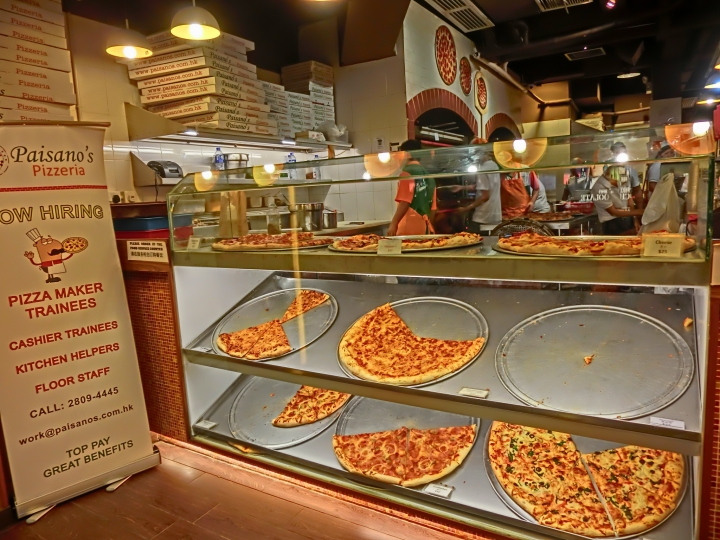
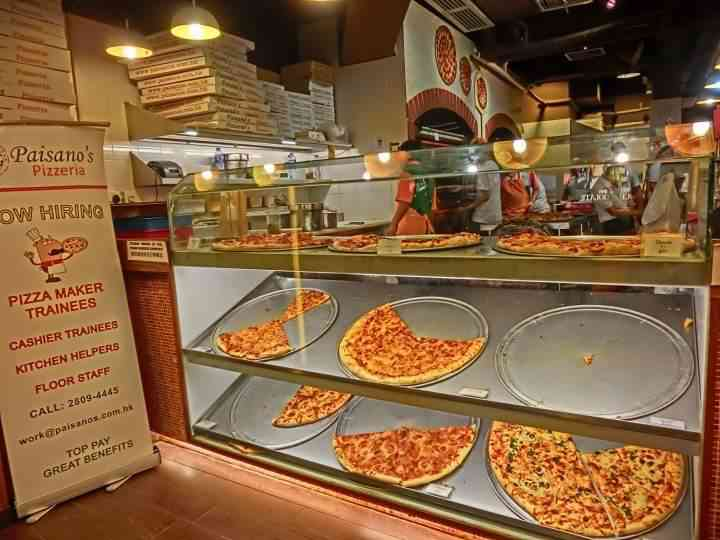
Make main.js load async, inline CSS, and optimize images

diff --git a/site/views/css/bootstrap-grid.css b/site/views/css/bootstrap-grid.css
@@ -5,4 +5,4 @@
  *//*!
  * Generated using the Bootstrap Customizer (http://getbootstrap.com/customize/?id=6b5a4e476fec98c1638f)
  * Config saved to config.json and https://gist.github.com/6b5a4e476fec98c1638f
- *//*! normalize.css v3.0.1 | MIT License | git.io/normalize */img{vertical-align:middle}.img-responsive{display:block;max-width:100%;height:auto}.img-rounded{border-radius:6px}.img-thumbnail{padding:4px;line-height:1.42857143;background-color:#fff;border:1px solid #ddd;border-radius:4px;-webkit-transition:all .2s ease-in-out;-o-transition:all .2s ease-in-out;transition:all .2s ease-in-out;display:inline-block;max-width:100%;height:auto}.img-circle{border-radius:50%}hr{margin-top:20px;margin-bottom:20px;border:0;border-top:1px solid #eee}.sr-only{position:absolute;width:1px;height:1px;margin:-1px;padding:0;overflow:hidden;clip:rect(0,0,0,0);border:0}.sr-only-focusable:active,.sr-only-focusable:focus{position:static;width:auto;height:auto;margin:0;overflow:visible;clip:auto}.container,.container-fluid{margin-right:auto;margin-left:auto;padding-left:15px;padding-right:15px}@media (min-width:768px){.container{width:750px}}@media (min-width:992px){.container{width:970px}}@media (min-width:1200px){.container{width:1170px}}.row{margin-left:-15px;margin-right:-15px}.col-lg-1,.col-lg-10,.col-lg-11,.col-lg-12,.col-lg-2,.col-lg-3,.col-lg-4,.col-lg-5,.col-lg-6,.col-lg-7,.col-lg-8,.col-lg-9,.col-md-1,.col-md-10,.col-md-11,.col-md-12,.col-md-2,.col-md-3,.col-md-4,.col-md-5,.col-md-6,.col-md-7,.col-md-8,.col-md-9,.col-sm-1,.col-sm-10,.col-sm-11,.col-sm-12,.col-sm-2,.col-sm-3,.col-sm-4,.col-sm-5,.col-sm-6,.col-sm-7,.col-sm-8,.col-sm-9,.col-xs-1,.col-xs-10,.col-xs-11,.col-xs-12,.col-xs-2,.col-xs-3,.col-xs-4,.col-xs-5,.col-xs-6,.col-xs-7,.col-xs-8,.col-xs-9{position:relative;min-height:1px;padding-left:15px;padding-right:15px}.col-xs-1,.col-xs-10,.col-xs-11,.col-xs-12,.col-xs-2,.col-xs-3,.col-xs-4,.col-xs-5,.col-xs-6,.col-xs-7,.col-xs-8,.col-xs-9{float:left}.col-xs-12{width:100%}.col-xs-11{width:91.66666667%}.col-xs-10{width:83.33333333%}.col-xs-9{width:75%}.col-xs-8{width:66.66666667%}.col-xs-7{width:58.33333333%}.col-xs-6{width:50%}.col-xs-5{width:41.66666667%}.col-xs-4{width:33.33333333%}.col-xs-3{width:25%}.col-xs-2{width:16.66666667%}.col-xs-1{width:8.33333333%}.col-xs-pull-12{right:100%}.col-xs-pull-11{right:91.66666667%}.col-xs-pull-10{right:83.33333333%}.col-xs-pull-9{right:75%}.col-xs-pull-8{right:66.66666667%}.col-xs-pull-7{right:58.33333333%}.col-xs-pull-6{right:50%}.col-xs-pull-5{right:41.66666667%}.col-xs-pull-4{right:33.33333333%}.col-xs-pull-3{right:25%}.col-xs-pull-2{right:16.66666667%}.col-xs-pull-1{right:8.33333333%}.col-xs-pull-0{right:auto}.col-xs-push-12{left:100%}.col-xs-push-11{left:91.66666667%}.col-xs-push-10{left:83.33333333%}.col-xs-push-9{left:75%}.col-xs-push-8{left:66.66666667%}.col-xs-push-7{left:58.33333333%}.col-xs-push-6{left:50%}.col-xs-push-5{left:41.66666667%}.col-xs-push-4{left:33.33333333%}.col-xs-push-3{left:25%}.col-xs-push-2{left:16.66666667%}.col-xs-push-1{left:8.33333333%}.col-xs-push-0{left:auto}.col-xs-offset-12{margin-left:100%}.col-xs-offset-11{margin-left:91.66666667%}.col-xs-offset-10{margin-left:83.33333333%}.col-xs-offset-9{margin-left:75%}.col-xs-offset-8{margin-left:66.66666667%}.col-xs-offset-7{margin-left:58.33333333%}.col-xs-offset-6{margin-left:50%}.col-xs-offset-5{margin-left:41.66666667%}.col-xs-offset-4{margin-left:33.33333333%}.col-xs-offset-3{margin-left:25%}.col-xs-offset-2{margin-left:16.66666667%}.col-xs-offset-1{margin-left:8.33333333%}.col-xs-offset-0{margin-left:0}@media (min-width:768px){.col-sm-1,.col-sm-10,.col-sm-11,.col-sm-12,.col-sm-2,.col-sm-3,.col-sm-4,.col-sm-5,.col-sm-6,.col-sm-7,.col-sm-8,.col-sm-9{float:left}.col-sm-12{width:100%}.col-sm-11{width:91.66666667%}.col-sm-10{width:83.33333333%}.col-sm-9{width:75%}.col-sm-8{width:66.66666667%}.col-sm-7{width:58.33333333%}.col-sm-6{width:50%}.col-sm-5{width:41.66666667%}.col-sm-4{width:33.33333333%}.col-sm-3{width:25%}.col-sm-2{width:16.66666667%}.col-sm-1{width:8.33333333%}.col-sm-pull-12{right:100%}.col-sm-pull-11{right:91.66666667%}.col-sm-pull-10{right:83.33333333%}.col-sm-pull-9{right:75%}.col-sm-pull-8{right:66.66666667%}.col-sm-pull-7{right:58.33333333%}.col-sm-pull-6{right:50%}.col-sm-pull-5{right:41.66666667%}.col-sm-pull-4{right:33.33333333%}.col-sm-pull-3{right:25%}.col-sm-pull-2{right:16.66666667%}.col-sm-pull-1{right:8.33333333%}.col-sm-pull-0{right:auto}.col-sm-push-12{left:100%}.col-sm-push-11{left:91.66666667%}.col-sm-push-10{left:83.33333333%}.col-sm-push-9{left:75%}.col-sm-push-8{left:66.66666667%}.col-sm-push-7{left:58.33333333%}.col-sm-push-6{left:50%}.col-sm-push-5{left:41.66666667%}.col-sm-push-4{left:33.33333333%}.col-sm-push-3{left:25%}.col-sm-push-2{left:16.66666667%}.col-sm-push-1{left:8.33333333%}.col-sm-push-0{left:auto}.col-sm-offset-12{margin-left:100%}.col-sm-offset-11{margin-left:91.66666667%}.col-sm-offset-10{margin-left:83.33333333%}.col-sm-offset-9{margin-left:75%}.col-sm-offset-8{margin-left:66.66666667%}.col-sm-offset-7{margin-left:58.33333333%}.col-sm-offset-6{margin-left:50%}.col-sm-offset-5{margin-left:41.66666667%}.col-sm-offset-4{margin-left:33.33333333%}.col-sm-offset-3{margin-left:25%}.col-sm-offset-2{margin-left:16.66666667%}.col-sm-offset-1{margin-left:8.33333333%}.col-sm-offset-0{margin-left:0}}@media (min-width:992px){.col-md-1,.col-md-10,.col-md-11,.col-md-12,.col-md-2,.col-md-3,.col-md-4,.col-md-5,.col-md-6,.col-md-7,.col-md-8,.col-md-9{float:left}.col-md-12{width:100%}.col-md-11{width:91.66666667%}.col-md-10{width:83.33333333%}.col-md-9{width:75%}.col-md-8{width:66.66666667%}.col-md-7{width:58.33333333%}.col-md-6{width:50%}.col-md-5{width:41.66666667%}.col-md-4{width:33.33333333%}.col-md-3{width:25%}.col-md-2{width:16.66666667%}.col-md-1{width:8.33333333%}.col-md-pull-12{right:100%}.col-md-pull-11{right:91.66666667%}.col-md-pull-10{right:83.33333333%}.col-md-pull-9{right:75%}.col-md-pull-8{right:66.66666667%}.col-md-pull-7{right:58.33333333%}.col-md-pull-6{right:50%}.col-md-pull-5{right:41.66666667%}.col-md-pull-4{right:33.33333333%}.col-md-pull-3{right:25%}.col-md-pull-2{right:16.66666667%}.col-md-pull-1{right:8.33333333%}.col-md-pull-0{right:auto}.col-md-push-12{left:100%}.col-md-push-11{left:91.66666667%}.col-md-push-10{left:83.33333333%}.col-md-push-9{left:75%}.col-md-push-8{left:66.66666667%}.col-md-push-7{left:58.33333333%}.col-md-push-6{left:50%}.col-md-push-5{left:41.66666667%}.col-md-push-4{left:33.33333333%}.col-md-push-3{left:25%}.col-md-push-2{left:16.66666667%}.col-md-push-1{left:8.33333333%}.col-md-push-0{left:auto}.col-md-offset-12{margin-left:100%}.col-md-offset-11{margin-left:91.66666667%}.col-md-offset-10{margin-left:83.33333333%}.col-md-offset-9{margin-left:75%}.col-md-offset-8{margin-left:66.66666667%}.col-md-offset-7{margin-left:58.33333333%}.col-md-offset-6{margin-left:50%}.col-md-offset-5{margin-left:41.66666667%}.col-md-offset-4{margin-left:33.33333333%}.col-md-offset-3{margin-left:25%}.col-md-offset-2{margin-left:16.66666667%}.col-md-offset-1{margin-left:8.33333333%}.col-md-offset-0{margin-left:0}}@media (min-width:1200px){.col-lg-1,.col-lg-10,.col-lg-11,.col-lg-12,.col-lg-2,.col-lg-3,.col-lg-4,.col-lg-5,.col-lg-6,.col-lg-7,.col-lg-8,.col-lg-9{float:left}.col-lg-12{width:100%}.col-lg-11{width:91.66666667%}.col-lg-10{width:83.33333333%}.col-lg-9{width:75%}.col-lg-8{width:66.66666667%}.col-lg-7{width:58.33333333%}.col-lg-6{width:50%}.col-lg-5{width:41.66666667%}.col-lg-4{width:33.33333333%}.col-lg-3{width:25%}.col-lg-2{width:16.66666667%}.col-lg-1{width:8.33333333%}.col-lg-pull-12{right:100%}.col-lg-pull-11{right:91.66666667%}.col-lg-pull-10{right:83.33333333%}.col-lg-pull-9{right:75%}.col-lg-pull-8{right:66.66666667%}.col-lg-pull-7{right:58.33333333%}.col-lg-pull-6{right:50%}.col-lg-pull-5{right:41.66666667%}.col-lg-pull-4{right:33.33333333%}.col-lg-pull-3{right:25%}.col-lg-pull-2{right:16.66666667%}.col-lg-pull-1{right:8.33333333%}.col-lg-pull-0{right:auto}.col-lg-push-12{left:100%}.col-lg-push-11{left:91.66666667%}.col-lg-push-10{left:83.33333333%}.col-lg-push-9{left:75%}.col-lg-push-8{left:66.66666667%}.col-lg-push-7{left:58.33333333%}.col-lg-push-6{left:50%}.col-lg-push-5{left:41.66666667%}.col-lg-push-4{left:33.33333333%}.col-lg-push-3{left:25%}.col-lg-push-2{left:16.66666667%}.col-lg-push-1{left:8.33333333%}.col-lg-push-0{left:auto}.col-lg-offset-12{margin-left:100%}.col-lg-offset-11{margin-left:91.66666667%}.col-lg-offset-10{margin-left:83.33333333%}.col-lg-offset-9{margin-left:75%}.col-lg-offset-8{margin-left:66.66666667%}.col-lg-offset-7{margin-left:58.33333333%}.col-lg-offset-6{margin-left:50%}.col-lg-offset-5{margin-left:41.66666667%}.col-lg-offset-4{margin-left:33.33333333%}.col-lg-offset-3{margin-left:25%}.col-lg-offset-2{margin-left:16.66666667%}.col-lg-offset-1{margin-left:8.33333333%}.col-lg-offset-0{margin-left:0}}.clearfix:after,.clearfix:before,.container-fluid:after,.container-fluid:before,.container:after,.container:before,.row:after,.row:before{content:" ";display:table}.clearfix:after,.container-fluid:after,.container:after,.row:after{clear:both}.center-block{display:block;margin-left:auto;margin-right:auto}.pull-right{float:right!important}.pull-left{float:left!important}.hide{display:none!important}.show{display:block!important}.invisible{visibility:hidden}.text-hide{font:0/0 a;color:transparent;text-shadow:none;background-color:transparent;border:0}.hidden{display:none!important;visibility:hidden!important}.affix{position:fixed;-webkit-transform:translate3d(0,0,0);transform:translate3d(0,0,0)}
+ *//*! normalize.css v3.0.1 | MIT License | git.io/normalize */img{vertical-align:middle}.img-responsive{display:block;max-width:100%;height:auto}hr{margin-top:20px;margin-bottom:20px;border:0;border-top:1px solid #eee}.container{margin-right:auto;margin-left:auto;padding-left:15px;padding-right:15px}@media (min-width:768px){.container{width:750px}}@media (min-width:992px){.container{width:970px}}@media (min-width:1200px){.container{width:1170px}}.row{margin-left:-15px;margin-right:-15px}.col-lg-1,.col-lg-10,.col-lg-11,.col-lg-12,.col-lg-2,.col-lg-3,.col-lg-4,.col-lg-5,.col-lg-6,.col-lg-7,.col-lg-8,.col-lg-9,.col-md-1,.col-md-10,.col-md-11,.col-md-12,.col-md-2,.col-md-3,.col-md-4,.col-md-5,.col-md-6,.col-md-7,.col-md-8,.col-md-9,.col-sm-1,.col-sm-10,.col-sm-11,.col-sm-12,.col-sm-2,.col-sm-3,.col-sm-4,.col-sm-5,.col-sm-6,.col-sm-7,.col-sm-8,.col-sm-9,.col-xs-1,.col-xs-10,.col-xs-11,.col-xs-12,.col-xs-2,.col-xs-3,.col-xs-4,.col-xs-5,.col-xs-6,.col-xs-7,.col-xs-8,.col-xs-9{position:relative;min-height:1px;padding-left:15px;padding-right:15px}@media (min-width:992px){.col-md-1,.col-md-10,.col-md-11,.col-md-12,.col-md-2,.col-md-3,.col-md-4,.col-md-5,.col-md-6,.col-md-7,.col-md-8,.col-md-9{float:left}.col-md-12{width:100%}.col-md-11{width:91.66666667%}.col-md-10{width:83.33333333%}.col-md-9{width:75%}.col-md-8{width:66.66666667%}.col-md-7{width:58.33333333%}.col-md-6{width:50%}.col-md-5{width:41.66666667%}.col-md-4{width:33.33333333%}.col-md-3{width:25%}.col-md-2{width:16.66666667%}.col-md-1{width:8.33333333%}.col-md-pull-12{right:100%}.col-md-pull-11{right:91.66666667%}.col-md-pull-10{right:83.33333333%}.col-md-pull-9{right:75%}.col-md-pull-8{right:66.66666667%}.col-md-pull-7{right:58.33333333%}.col-md-pull-6{right:50%}.col-md-pull-5{right:41.66666667%}.col-md-pull-4{right:33.33333333%}.col-md-pull-3{right:25%}.col-md-pull-2{right:16.66666667%}.col-md-pull-1{right:8.33333333%}.col-md-pull-0{right:auto}.col-md-push-12{left:100%}.col-md-push-11{left:91.66666667%}.col-md-push-10{left:83.33333333%}.col-md-push-9{left:75%}.col-md-push-8{left:66.66666667%}.col-md-push-7{left:58.33333333%}.col-md-push-6{left:50%}.col-md-push-5{left:41.66666667%}.col-md-push-4{left:33.33333333%}.col-md-push-3{left:25%}.col-md-push-2{left:16.66666667%}.col-md-push-1{left:8.33333333%}.col-md-push-0{left:auto}.col-md-offset-12{margin-left:100%}.col-md-offset-11{margin-left:91.66666667%}.col-md-offset-10{margin-left:83.33333333%}.col-md-offset-9{margin-left:75%}.col-md-offset-8{margin-left:66.66666667%}.col-md-offset-7{margin-left:58.33333333%}.col-md-offset-6{margin-left:50%}.col-md-offset-5{margin-left:41.66666667%}.col-md-offset-4{margin-left:33.33333333%}.col-md-offset-3{margin-left:25%}.col-md-offset-2{margin-left:16.66666667%}.col-md-offset-1{margin-left:8.33333333%}.col-md-offset-0{margin-left:0}}.clearfix:after,.clearfix:before,.container-fluid:after,.container-fluid:before,.container:after,.container:before,.row:after,.row:before{content:" ";display:table}.clearfix:after,.container-fluid:after,.container:after,.row:after{clear:both}.center-block{display:block;margin-left:auto;margin-right:auto}.pull-right{float:right!important}.pull-left{float:left!important}.hide{display:none!important}.show{display:block!important}.invisible{visibility:hidden}.text-hide{font:0/0 a;color:transparent;text-shadow:none;background-color:transparent;border:0}.hidden{display:none!important;visibility:hidden!important}.affix{position:fixed;-webkit-transform:translate3d(0,0,0);transform:translate3d(0,0,0)}

diff --git a/site/views/pizza.html b/site/views/pizza.html
@@ -1,1 +1,8 @@
-<!DOCTYPE HTML><html><head><style>*{-webkit-box-sizing:border-box;-moz-box-sizing:border-box;-box-sizing:border-box}body{font-family:"Trebuchet MS",Helvetica,sans-serif;background:#000}input{background:grey;font-size:18px}form{display:inline-block}.centered{text-align:center}#pizzaSize{font-weight:800}.mover{position:fixed;width:256px;z-index:-1}.randomPizzaContainer{float:left;display:flex}.randomPizzaContainer:after{content:"";display:table;clear:both}.container{background-color:rgba(240,60,60,.8)}</style><link rel=stylesheet href=css/bootstrap-grid.css></head><body><div class=container><div id=header class=row><div class=col-md-6><div class=row><div class=col-md-12><h1>Cam's Pizzeria</h1><div class=row><div id=menu class=col-md-12><form action=#randomPizzas><input type=submit value=Menu></form><form action=#ingredients><input type=submit value="Our Ingredients"></form><form action=#locations><input type=submit value=Locations></form><form action=# onsubmit="alert('Thanks for clicking! This button doesn\'t do anything because this is a fake pizzeria :\)')"><input type=submit value="Contact Us"></form></div></div></div></div></div><div id=movingPizzas1 class=col-md-6></div></div><div id=callToAction class=row><div class=col-md-4><img src=images/pizzeria.jpg class=img-responsive><!--Image credit to: http://commons.wikimedia.org/wiki/File:HK_TST_night_%E5%98%89%E8%98%AD%E9%81%93_Granville_Road_restaurant_Paisano's_Pizzeria_pizza_Dec-2013.JPG--></div><div class=col-md-8><div class=row><div class=col-md-12><h2>We Have Hundreds of Pizza Recipes!</h2><p>At Cam's Pizzeria, we know you want options. Pepperoni? Boring. Cheese? No way! Sausage? C'mon, let's get creative.</p><p>We have every pizza ingredient imaginable in our kitchen because we know you take choice seriously. Take a look through our menu of hundreds of pizza options and we know that you'll find something you love.</p></div></div><div class=row><div class="col-md-6 col-md-push-3"><form action=#randomPizzas><input type=submit value="Pick a Pizza Now!"></form></div></div></div></div><div id=ingredients class=row><div class="col-md-8 col-md-push-2"><div class=row><div class="col-md-12 centered"><h2>Ingredients!</h2></div></div><div class=row><div class=col-md-12><p>We've scoured the planet for the best pizza ingredients. Our crack team of ingredient specialists are on constant lookout for new and interesting pizza ingredients.</p><p>We have classic meats like pepperoni, sausage, and barbecue chicken. But you can find even more fun meats like coppa, kielbasa and soylent green on our menu too.</p><p>Not interested in meat? No problem! We love our veggies too :) We have everything from arugula to zucchini.</p></div></div></div></div><div id=locations class=row><div class=col-md-12><h2 style="text-align: center">Locations!</h2><div class=row><div class=col-md-6><h3>Pizza Road</h3><p>1800 Pizza Road<br>San Francisco, CA<br>01010<br>555-555-5555</p></div><div class=col-md-6><h3>Classic Pie Way</h3><p>999 Classic Pie Way<br>New York, NY<br>00100<br>555-555-5555</p></div></div></div></div><div id=pizzaGenerator class=row><div class=col-md-12><h2 style="text-align: center">Our Pizzas!</h2><div class=row><div class=col-md-12><em>What size pizza would you like? Use the slider below to change pizza sizes.</em></div><div id=pizzaSize class=col-md-6>Medium</div><div class=col-md-12><input id=sizeSlider type=range min=1 max=3 value=2 step=1 onchange=resizePizzas(this.value)></div></div><div id=randomPizzas class=row><div id=pizza0 class=randomPizzaContainer style=width:33.33%;><div class=col-md-6><img src=images/pizza.png class=img-responsive></div><div class=col-md-6><h4>The Udacity Special</h4><ul><li>Turkey</li><li>Tofu</li><li>Cauliflower</li><li>Sun Dried Tomatoes</li><li>Velveeta Cheese</li><li>Red Sauce</li><li>Whole Wheat Crust</li></ul></div></div><div id=pizza1 class=randomPizzaContainer style=width:33.33%;><div class=col-md-6><img src=images/pizza.png class=img-responsive></div><div class=col-md-6><h4>The Cameron Special</h4><ul><li>Chicken</li><li>Hot Sauce</li><li>White Crust</li></ul></div></div></div></div></div><div id=footer class=col-md-12>Thanks for visiting! &copy; 2014 Udacity</div></div><script type=text/javascript src=js/main.js></script></body></html>
+<!DOCTYPE HTML><html><head><meta name=viewport content="width=device-width,initial-scale=1"><meta name=description content="Frontend Web Developer Nanodegree Project 4"><meta name=author content="Randal Parsons"><title>Randal Parsons: Portfolio</title><style>*{-webkit-box-sizing:border-box;-moz-box-sizing:border-box;-box-sizing:border-box}body{font-family:"Trebuchet MS",Helvetica,sans-serif;background:#000}input{background:grey;font-size:18px}form{display:inline-block}.centered{text-align:center}#pizzaSize{font-weight:800}.mover{position:fixed;width:256px;z-index:-1}.randomPizzaContainer{float:left;display:flex}.randomPizzaContainer:after{content:"";display:table;clear:both}.container{background-color:rgba(240,60,60,.8)}</style><style>/*!
+ * Bootstrap v3.2.0 (http://getbootstrap.com)
+ * Copyright 2011-2014 Twitter, Inc.
+ * Licensed under MIT (https://github.com/twbs/bootstrap/blob/master/LICENSE)
+ *//*!
+ * Generated using the Bootstrap Customizer (http://getbootstrap.com/customize/?id=6b5a4e476fec98c1638f)
+ * Config saved to config.json and https://gist.github.com/6b5a4e476fec98c1638f
+ *//*! normalize.css v3.0.1 | MIT License | git.io/normalize */img{vertical-align:middle}.img-responsive{display:block;max-width:100%;height:auto}hr{margin-top:20px;margin-bottom:20px;border:0;border-top:1px solid #eee}.container{margin-right:auto;margin-left:auto;padding-left:15px;padding-right:15px}@media (min-width:768px){.container{width:750px}}@media (min-width:992px){.container{width:970px}}@media (min-width:1200px){.container{width:1170px}}.row{margin-left:-15px;margin-right:-15px}.col-lg-1,.col-lg-10,.col-lg-11,.col-lg-12,.col-lg-2,.col-lg-3,.col-lg-4,.col-lg-5,.col-lg-6,.col-lg-7,.col-lg-8,.col-lg-9,.col-md-1,.col-md-10,.col-md-11,.col-md-12,.col-md-2,.col-md-3,.col-md-4,.col-md-5,.col-md-6,.col-md-7,.col-md-8,.col-md-9,.col-sm-1,.col-sm-10,.col-sm-11,.col-sm-12,.col-sm-2,.col-sm-3,.col-sm-4,.col-sm-5,.col-sm-6,.col-sm-7,.col-sm-8,.col-sm-9,.col-xs-1,.col-xs-10,.col-xs-11,.col-xs-12,.col-xs-2,.col-xs-3,.col-xs-4,.col-xs-5,.col-xs-6,.col-xs-7,.col-xs-8,.col-xs-9{position:relative;min-height:1px;padding-left:15px;padding-right:15px}@media (min-width:992px){.col-md-1,.col-md-10,.col-md-11,.col-md-12,.col-md-2,.col-md-3,.col-md-4,.col-md-5,.col-md-6,.col-md-7,.col-md-8,.col-md-9{float:left}.col-md-12{width:100%}.col-md-11{width:91.66666667%}.col-md-10{width:83.33333333%}.col-md-9{width:75%}.col-md-8{width:66.66666667%}.col-md-7{width:58.33333333%}.col-md-6{width:50%}.col-md-5{width:41.66666667%}.col-md-4{width:33.33333333%}.col-md-3{width:25%}.col-md-2{width:16.66666667%}.col-md-1{width:8.33333333%}.col-md-pull-12{right:100%}.col-md-pull-11{right:91.66666667%}.col-md-pull-10{right:83.33333333%}.col-md-pull-9{right:75%}.col-md-pull-8{right:66.66666667%}.col-md-pull-7{right:58.33333333%}.col-md-pull-6{right:50%}.col-md-pull-5{right:41.66666667%}.col-md-pull-4{right:33.33333333%}.col-md-pull-3{right:25%}.col-md-pull-2{right:16.66666667%}.col-md-pull-1{right:8.33333333%}.col-md-pull-0{right:auto}.col-md-push-12{left:100%}.col-md-push-11{left:91.66666667%}.col-md-push-10{left:83.33333333%}.col-md-push-9{left:75%}.col-md-push-8{left:66.66666667%}.col-md-push-7{left:58.33333333%}.col-md-push-6{left:50%}.col-md-push-5{left:41.66666667%}.col-md-push-4{left:33.33333333%}.col-md-push-3{left:25%}.col-md-push-2{left:16.66666667%}.col-md-push-1{left:8.33333333%}.col-md-push-0{left:auto}.col-md-offset-12{margin-left:100%}.col-md-offset-11{margin-left:91.66666667%}.col-md-offset-10{margin-left:83.33333333%}.col-md-offset-9{margin-left:75%}.col-md-offset-8{margin-left:66.66666667%}.col-md-offset-7{margin-left:58.33333333%}.col-md-offset-6{margin-left:50%}.col-md-offset-5{margin-left:41.66666667%}.col-md-offset-4{margin-left:33.33333333%}.col-md-offset-3{margin-left:25%}.col-md-offset-2{margin-left:16.66666667%}.col-md-offset-1{margin-left:8.33333333%}.col-md-offset-0{margin-left:0}}.clearfix:after,.clearfix:before,.container-fluid:after,.container-fluid:before,.container:after,.container:before,.row:after,.row:before{content:" ";display:table}.clearfix:after,.container-fluid:after,.container:after,.row:after{clear:both}.center-block{display:block;margin-left:auto;margin-right:auto}.pull-right{float:right!important}.pull-left{float:left!important}.hide{display:none!important}.show{display:block!important}.invisible{visibility:hidden}.text-hide{font:0/0 a;color:transparent;text-shadow:none;background-color:transparent;border:0}.hidden{display:none!important;visibility:hidden!important}.affix{position:fixed;-webkit-transform:translate3d(0,0,0);transform:translate3d(0,0,0)}</style></head><body><div class=container><div id=header class=row><div class=col-md-6><div class=row><div class=col-md-12><h1>Cam's Pizzeria</h1><div class=row><div id=menu class=col-md-12><form action=#randomPizzas><input type=submit value=Menu></form><form action=#ingredients><input type=submit value="Our Ingredients"></form><form action=#locations><input type=submit value=Locations></form><form action=# onsubmit="alert('Thanks for clicking! This button doesn\'t do anything because this is a fake pizzeria :\)')"><input type=submit value="Contact Us"></form></div></div></div></div></div><div id=movingPizzas1 class=col-md-6></div></div><div id=callToAction class=row><div class=col-md-4><img src=images/pizzeria.jpg class=img-responsive><!--Image credit to: http://commons.wikimedia.org/wiki/File:HK_TST_night_%E5%98%89%E8%98%AD%E9%81%93_Granville_Road_restaurant_Paisano's_Pizzeria_pizza_Dec-2013.JPG--></div><div class=col-md-8><div class=row><div class=col-md-12><h2>We Have Hundreds of Pizza Recipes!</h2><p>At Cam's Pizzeria, we know you want options. Pepperoni? Boring. Cheese? No way! Sausage? C'mon, let's get creative.</p><p>We have every pizza ingredient imaginable in our kitchen because we know you take choice seriously. Take a look through our menu of hundreds of pizza options and we know that you'll find something you love.</p></div></div><div class=row><div class="col-md-6 col-md-push-3"><form action=#randomPizzas><input type=submit value="Pick a Pizza Now!"></form></div></div></div></div><div id=ingredients class=row><div class="col-md-8 col-md-push-2"><div class=row><div class="col-md-12 centered"><h2>Ingredients!</h2></div></div><div class=row><div class=col-md-12><p>We've scoured the planet for the best pizza ingredients. Our crack team of ingredient specialists are on constant lookout for new and interesting pizza ingredients.</p><p>We have classic meats like pepperoni, sausage, and barbecue chicken. But you can find even more fun meats like coppa, kielbasa and soylent green on our menu too.</p><p>Not interested in meat? No problem! We love our veggies too :) We have everything from arugula to zucchini.</p></div></div></div></div><div id=locations class=row><div class=col-md-12><h2 style="text-align: center">Locations!</h2><div class=row><div class=col-md-6><h3>Pizza Road</h3><p>1800 Pizza Road<br>San Francisco, CA<br>01010<br>555-555-5555</p></div><div class=col-md-6><h3>Classic Pie Way</h3><p>999 Classic Pie Way<br>New York, NY<br>00100<br>555-555-5555</p></div></div></div></div><div id=pizzaGenerator class=row><div class=col-md-12><h2 style="text-align: center">Our Pizzas!</h2><div class=row><div class=col-md-12><em>What size pizza would you like? Use the slider below to change pizza sizes.</em></div><div id=pizzaSize class=col-md-6>Medium</div><div class=col-md-12><input id=sizeSlider type=range min=1 max=3 value=2 step=1 onchange=resizePizzas(this.value)></div></div><div id=randomPizzas class=row><div id=pizza0 class=randomPizzaContainer style=width:33.33%;><div class=col-md-6><img src=images/pizza.png class=img-responsive></div><div class=col-md-6><h4>The Udacity Special</h4><ul><li>Turkey</li><li>Tofu</li><li>Cauliflower</li><li>Sun Dried Tomatoes</li><li>Velveeta Cheese</li><li>Red Sauce</li><li>Whole Wheat Crust</li></ul></div></div><div id=pizza1 class=randomPizzaContainer style=width:33.33%;><div class=col-md-6><img src=images/pizza.png class=img-responsive></div><div class=col-md-6><h4>The Cameron Special</h4><ul><li>Chicken</li><li>Hot Sauce</li><li>White Crust</li></ul></div></div></div></div></div><div id=footer class=col-md-12>Thanks for visiting! &copy; 2014 Udacity</div></div><script async src=js/main.js></script></body></html>

diff --git a/views/css/bootstrap-grid.css b/views/css/bootstrap-grid.css
@@ -20,6 +20,7 @@ img {
   max-width: 100%;
   height: auto;
 }
+/*
 .img-rounded {
   border-radius: 6px;
 }
@@ -40,12 +41,15 @@ img {
 .img-circle {
   border-radius: 50%;
 }
+*/
+
 hr {
   margin-top: 20px;
   margin-bottom: 20px;
   border: 0;
   border-top: 1px solid #eeeeee;
 }
+/*
 .sr-only {
   position: absolute;
   width: 1px;
@@ -65,6 +69,8 @@ hr {
   overflow: visible;
   clip: auto;
 }
+*/
+
 .container {
   margin-right: auto;
   margin-left: auto;
@@ -86,12 +92,14 @@ hr {
     width: 1170px;
   }
 }
+/*
 .container-fluid {
   margin-right: auto;
   margin-left: auto;
   padding-left: 15px;
   padding-right: 15px;
 }
+*/
 .row {
   margin-left: -15px;
   margin-right: -15px;
@@ -102,6 +110,7 @@ hr {
   padding-left: 15px;
   padding-right: 15px;
 }
+/*
 .col-xs-1, .col-xs-2, .col-xs-3, .col-xs-4, .col-xs-5, .col-xs-6, .col-xs-7, .col-xs-8, .col-xs-9, .col-xs-10, .col-xs-11, .col-xs-12 {
   float: left;
 }
@@ -416,6 +425,7 @@ hr {
     margin-left: 0%;
   }
 }
+*/
 @media (min-width: 992px) {
   .col-md-1, .col-md-2, .col-md-3, .col-md-4, .col-md-5, .col-md-6, .col-md-7, .col-md-8, .col-md-9, .col-md-10, .col-md-11, .col-md-12 {
     float: left;
@@ -574,6 +584,7 @@ hr {
     margin-left: 0%;
   }
 }
+/*
 @media (min-width: 1200px) {
   .col-lg-1, .col-lg-2, .col-lg-3, .col-lg-4, .col-lg-5, .col-lg-6, .col-lg-7, .col-lg-8, .col-lg-9, .col-lg-10, .col-lg-11, .col-lg-12 {
     float: left;
@@ -732,6 +743,7 @@ hr {
     margin-left: 0%;
   }
 }
+*/
 .clearfix:before,
 .clearfix:after,
 .container:before,

diff --git a/views/pizza.html b/views/pizza.html
@@ -1,10 +1,16 @@
 <!DOCTYPE HTML>
 <html>
 <head>
+  <meta name="viewport" content="width=device-width,initial-scale=1">
+  <meta name="description" content="Frontend Web Developer Nanodegree Project 4">
+  <meta name="author" content="Randal Parsons">
+  <title>Randal Parsons: Portfolio</title>
+
   <!-- smoosh -->
   <link rel="stylesheet" href="css/style.css">
-  <!-- endsmoosh -->
   <link rel="stylesheet" href="css/bootstrap-grid.css">
+  <!-- endsmoosh -->
+
 </head>
 
 <body>
@@ -139,7 +145,7 @@
     </div>
     <div id="footer" class="col-md-12">Thanks for visiting! &copy; 2014 Udacity</div>
   </div>
-  <script type="text/javascript" src="js/main.js"></script>
+  <script async src="js/main.js"></script>
 </body>
 
 </html>
